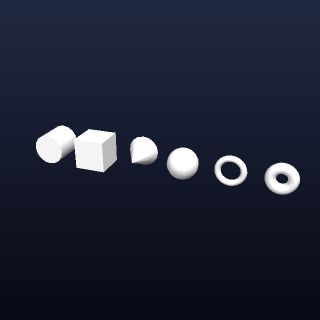
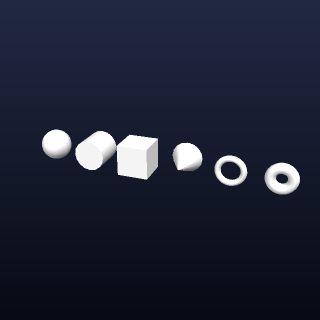
Say and show that the turtle starts with a ball (#142)
## What changed
Many examples never say `shape`, but the only place that said the turtle
starts with `ball` was the state table in LANGUAGE.md 11.1.
- LANGUAGE.md 12 now says it, and that a `shape` lasts until the next
one, with a small example and picture: a ball (no `shape` yet), then two
cubes after `shape cube`.
- REFERENCE.md `shape` already had the remark, but its example didn't
show it. The example now lays a ball before any `shape`, then the other
five shapes.

## How tested
`npm run check` passes (820 tests); pictures checked by eye.

## Release
Nothing to release.

🤖 Generated with [Claude Code](https://claude.com/claude-code)

Changed region(s): [[0.0938, 0.375, 0.6562, 0.5625]]

diff --git a/docs/LANGUAGE.md b/docs/LANGUAGE.md
@@ -830,6 +830,24 @@ tail
 | `lay`       | lay the current shape                                                                                                                                                        |
 | `lay { … }` | lay it with extra shape transform commands ([11.7](#117-the-shape-transform))                                                                                                |
 
+**The turtle starts with `ball`** ([11.1](#111-state-and-directions)), so code that never says
+`shape` lays balls, as many examples in this document do. A `shape` lasts until the next one. In
+the example, the first `lay` comes before any `shape`, so it lays a ball, and both `lay`s after
+`shape cube` lay cubes:
+
+<!-- picture: default-shape view=20,25 -->
+
+```
+lay // a ball: no `shape` yet
+move (1.5, 0, 0)
+shape cube
+lay // a cube
+move (1.5, 0, 0)
+lay // still a cube
+```
+
+![A ball and then two cubes, in a row](images/default-shape.png)
+
 Each laid shape records its placement, shape, colour, shine, sharpness, texture and wear at the moment
 it's laid.
 

diff --git a/docs/REFERENCE.md b/docs/REFERENCE.md
@@ -1145,7 +1145,8 @@ shape s
 
 **Remarks**
 
-- The turtle starts with `ball`.
+- The turtle starts with `ball`: in the example, the first `lay` comes before any `shape`, so it
+  lays a ball.
 - The checker warns about a `shape` with no `lay` after it, which usually belongs before the `lay`
   it was meant for.
 
@@ -1154,15 +1155,16 @@ shape s
 <!-- picture: shape view=20,25 -->
 
 ```
-let shapes = [tube, cube, cone, ball, ring, donut]
-repeat 6 as i {
+lay // no `shape` yet, so a ball
+let shapes = [tube, cube, cone, ring, donut]
+repeat 5 as i {
+  move (1.5, 0, 0)
   shape shapes[i]
   lay
-  move (1.5, 0, 0)
 }
 ```
 
-![The six shapes in a row: tube, cube, cone, ball, ring and donut](images/shape.png)
+![The six shapes in a row: ball (the shape the turtle starts with), tube, cube, cone, ring and donut](images/shape.png)
 
 **See also:** [lay](#lay), [Shapes](LANGUAGE.md#12-shapes)
 
